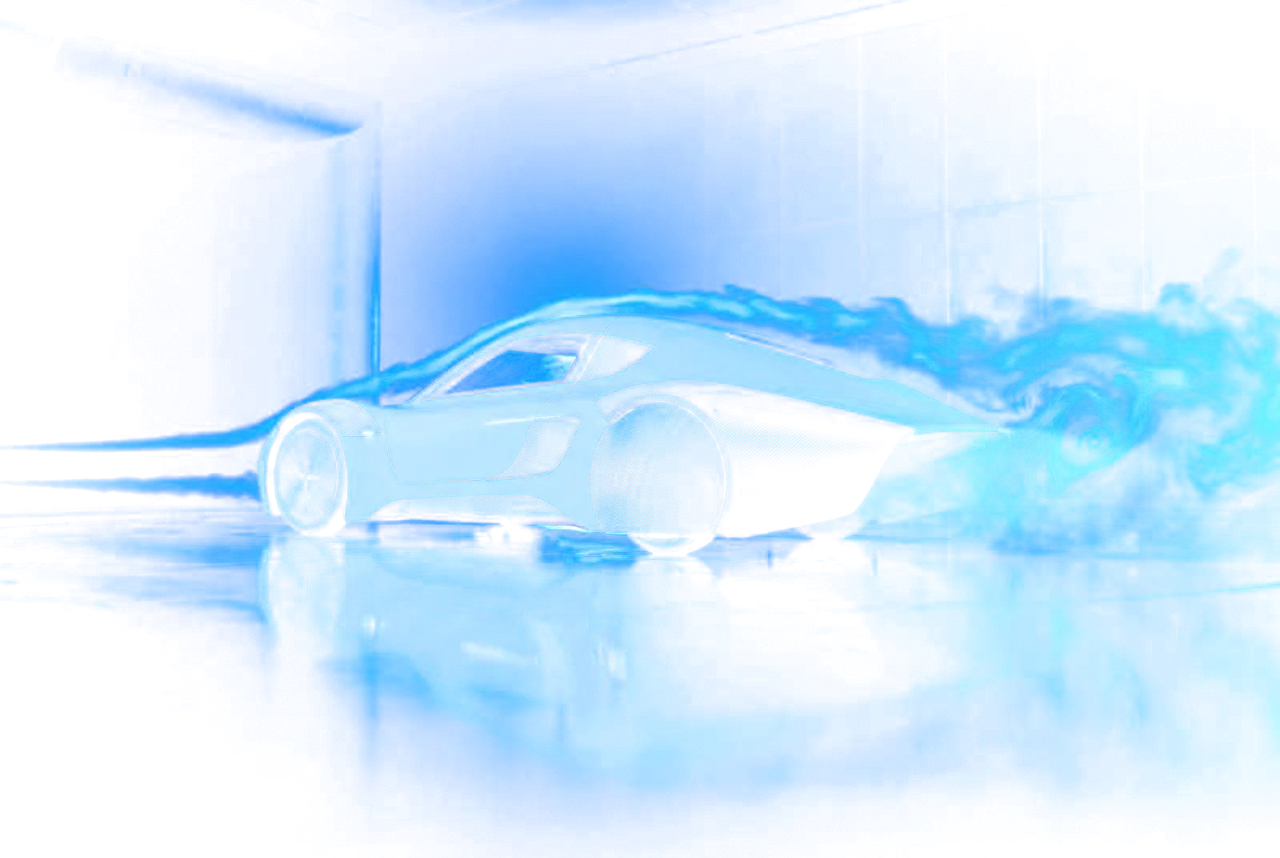
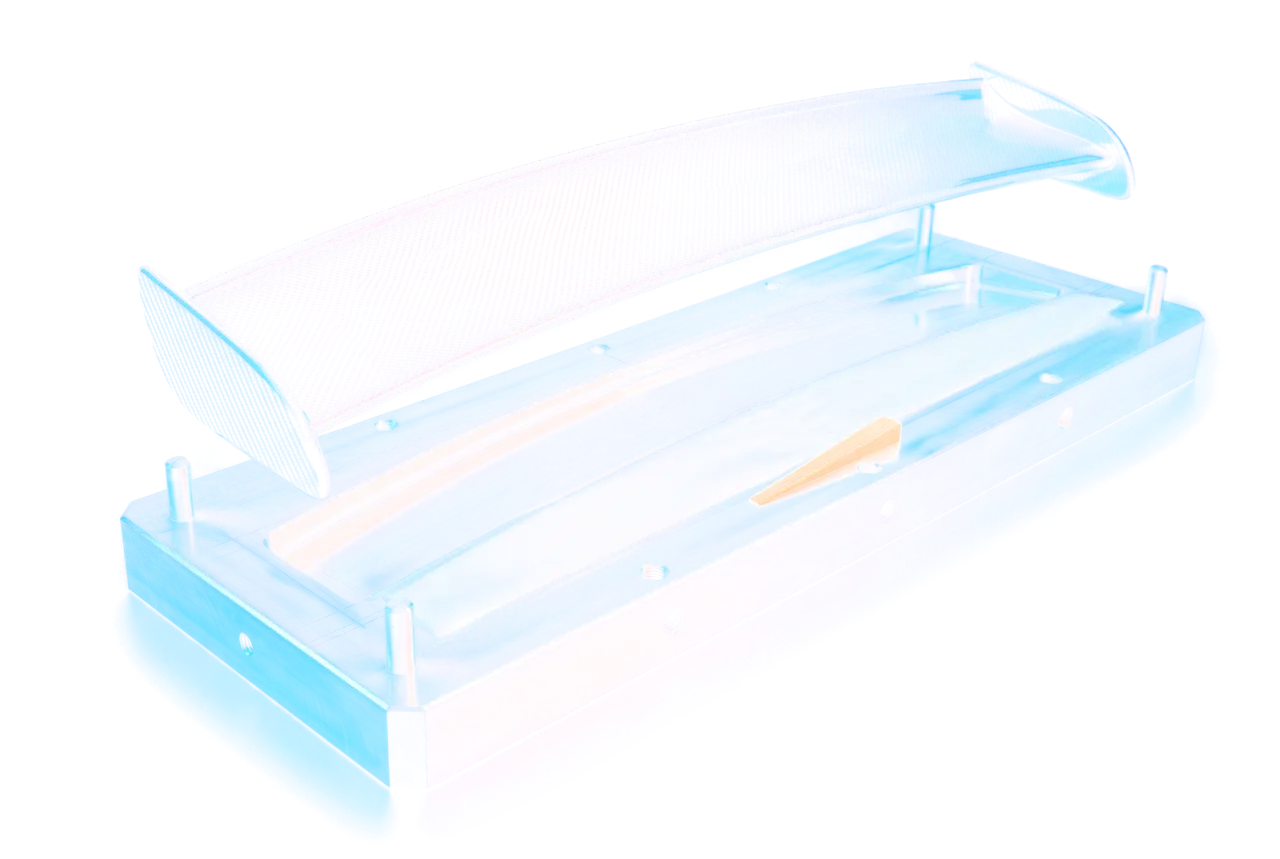
Shell Eco Marathon: carbon rear wing demoulded from aluminium tooling

diff --git a/index.html b/index.html
@@ -347,9 +347,9 @@
 <script src="lib/gsap.min.js"></script>
 <script src="lib/ScrollTrigger.min.js"></script>
 <script src="lib/lenis.min.js"></script>
-<script src="src/content.js?v=24"></script>
-<script src="src/scenes.js?v=24"></script>
-<script src="src/viz.js?v=24"></script>
-<script src="src/app.js?v=24"></script>
+<script src="src/content.js?v=25"></script>
+<script src="src/scenes.js?v=25"></script>
+<script src="src/viz.js?v=25"></script>
+<script src="src/app.js?v=25"></script>
 </body>
 </html>
